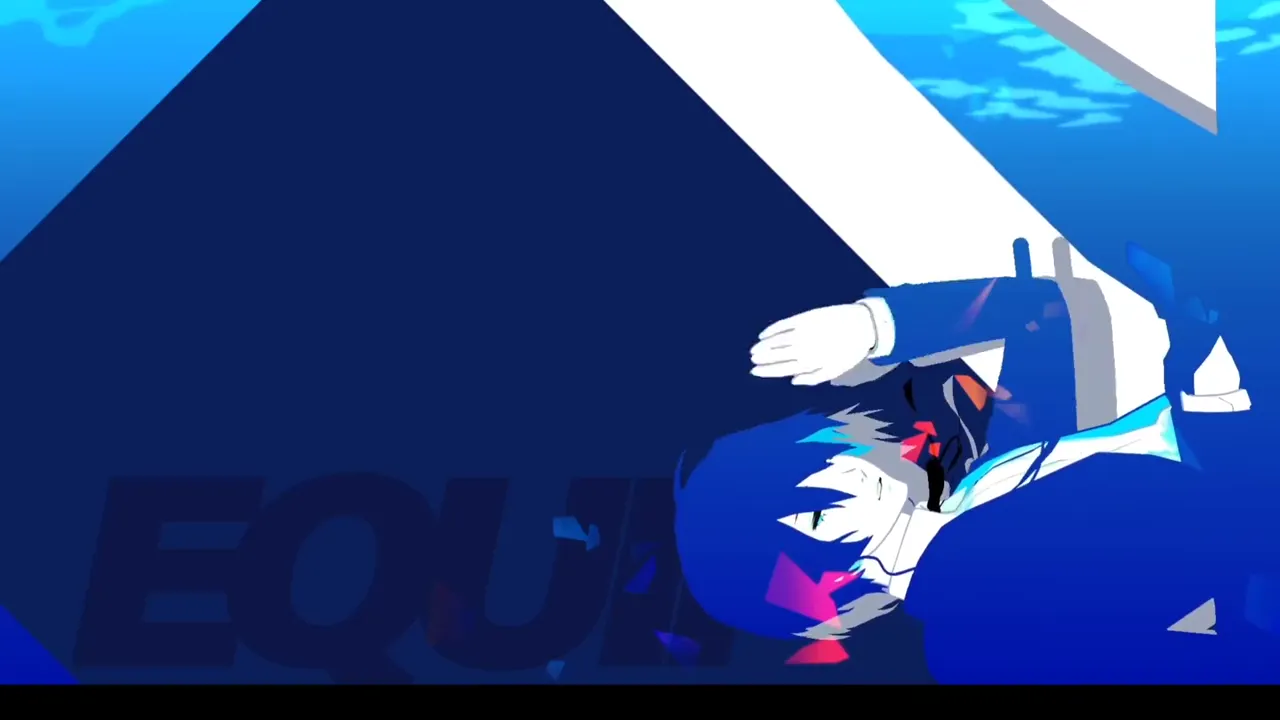
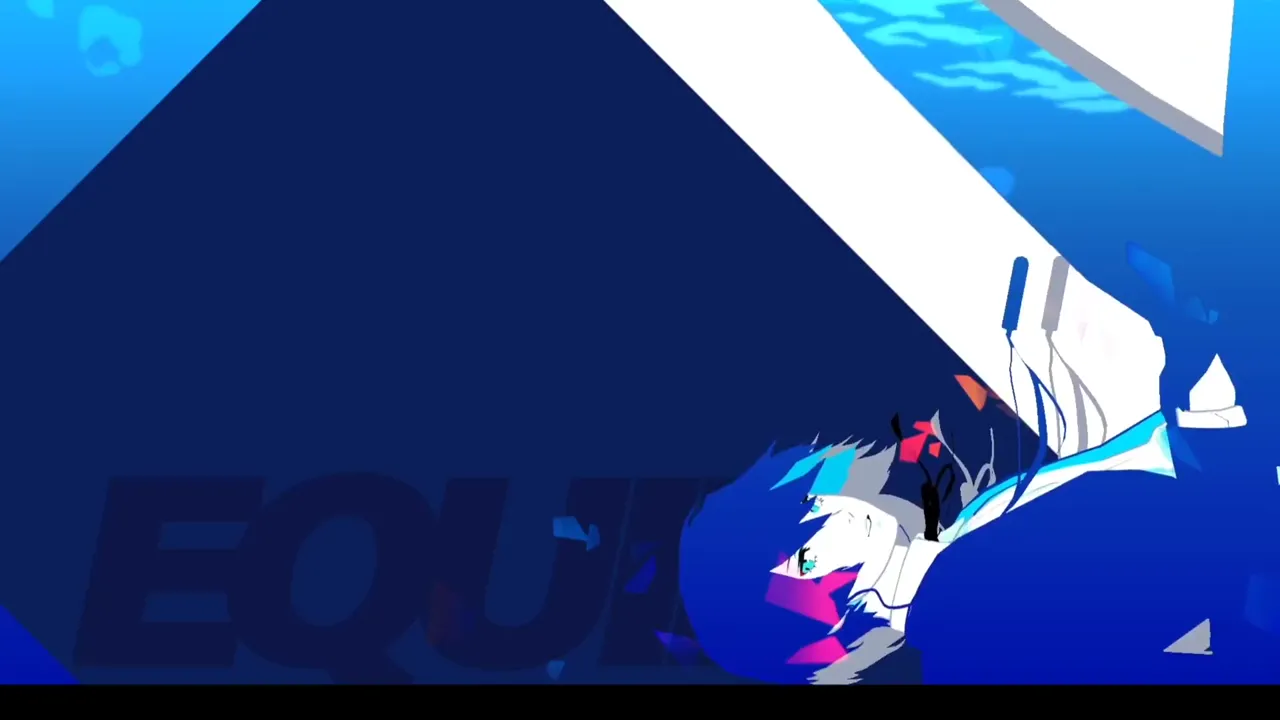
UX: Crossfade suave entre poster y video

diff --git a/components/Menu.tsx b/components/Menu.tsx
@@ -110,6 +110,7 @@ function VideoBackdrop({ warmed, active }: { warmed: Set<string>; active: string
   const isMobile = useIsMobile();
   const prefersReducedMotion = usePrefersReducedMotion();
   const refs = useRef<Record<string, HTMLVideoElement | null>>({});
+  const [videoReady, setVideoReady] = useState<Set<string>>(() => new Set());
 
   useEffect(() => {
     if (prefersReducedMotion) return;
@@ -122,28 +123,50 @@ function VideoBackdrop({ warmed, active }: { warmed: Set<string>; active: string
     }
   }, [warmed, prefersReducedMotion]);
 
+  const markReady = (key: string) => {
+    setVideoReady(prev => (prev.has(key) ? prev : new Set(prev).add(key)));
+  };
+
   return (
     <div className="absolute inset-0" style={{ zIndex: 0, pointerEvents: "none", background: "#050b1f" }}>
       {BACKDROP_VIDEOS.map((item) => {
         const isActive = active === item.key;
         const shouldPlay = warmed.has(item.key) && !prefersReducedMotion;
+        const isReady = videoReady.has(item.key);
         return (
-          <video
+          <div
             key={item.key}
-            ref={(el) => { refs.current[item.key] = el; }}
-            autoPlay={shouldPlay}
-            loop={!prefersReducedMotion}
-            muted
-            playsInline
-            preload={warmed.has(item.key) ? "auto" : "metadata"}
-            poster={item.poster}
-            aria-hidden="true"
-            data-mobile-bg={isMobile ? "" : undefined}
-            className="absolute inset-0 w-full h-full object-cover"
-            style={{ zIndex: 0, opacity: isActive ? 1 : 0, transition: "opacity 180ms ease" }}
+            className="absolute inset-0"
+            style={{ zIndex: 0, opacity: isActive ? 1 : 0, transition: "opacity 180ms ease", pointerEvents: "none" }}
           >
-            <source src={item.src} type="video/mp4" />
-          </video>
+            <div
+              className="absolute inset-0"
+              style={{
+                zIndex: 0,
+                backgroundImage: `url(${item.poster})`,
+                backgroundSize: "cover",
+                backgroundPosition: isMobile ? "center 35%" : "center",
+                transform: isReady ? "scale(1)" : "scale(1.015)",
+                filter: isReady ? "blur(0px)" : "blur(4px)",
+                transition: "transform 600ms ease, filter 600ms ease",
+              }}
+            />
+            <video
+              ref={(el) => { refs.current[item.key] = el; }}
+              autoPlay={shouldPlay}
+              loop={!prefersReducedMotion}
+              muted
+              playsInline
+              preload={warmed.has(item.key) ? "auto" : "metadata"}
+              onPlaying={() => markReady(item.key)}
+              aria-hidden="true"
+              data-mobile-bg={isMobile ? "" : undefined}
+              className="absolute inset-0 w-full h-full object-cover"
+              style={{ zIndex: 1, opacity: isReady ? 1 : 0, transition: "opacity 400ms ease" }}
+            >
+              <source src={item.src} type="video/mp4" />
+            </video>
+          </div>
         );
       })}
     </div>
@@ -162,6 +185,7 @@ export default function Menu() {
   const [started, setStarted]             = useState(false);
   const [introFinished, setIntroFinished] = useState(false);
   const [menuVidReady, setMenuVidReady]   = useState(false);
+  const [menuLoopReady, setMenuLoopReady] = useState(false);
   const [loadProgress, setLoadProgress]   = useState(0);
 
   const loadStartedAt = useRef<number | null>(null);
@@ -312,6 +336,7 @@ export default function Menu() {
       if (screen === "menu") {
         setIntroFinished(false);
         setMenuVidReady(false);
+        setMenuLoopReady(false);
         setShowMenu(false);
         setActive(0);
       }
@@ -437,40 +462,78 @@ export default function Menu() {
             <div className="absolute inset-0" style={{ background: "#ffffff", zIndex: 0 }} />
           )}
 
-          {/* LOOP VIDEO — always mounted & playing underneath, so the intro→loop handoff has no gap/flash */}
+          {/* LOOP VIDEO — poster layer fades into the live video once it starts playing */}
           {currentScreen === "menu" && vidsReady && (
-            <video
-              autoPlay={!prefersReducedMotion} loop={!prefersReducedMotion} muted playsInline
-              preload={prefersReducedMotion ? "none" : "auto"}
-              poster="/posters/menu.webp"
-              src={menuSources.loop}
-              data-mobile-bg={isMobile ? "" : undefined}
-              className="absolute inset-0 w-full h-full object-cover"
-              style={{ transform: isMobile ? "none" : "translateX(15%)", objectPosition: isMobile ? "22% center" : "center", zIndex: 1 }}
-            />
+            <div
+              className="absolute inset-0"
+              style={{ transform: isMobile ? "none" : "translateX(15%)", zIndex: 1, pointerEvents: "none" }}
+            >
+              <div
+                className="absolute inset-0"
+                style={{
+                  backgroundImage: "url('/posters/menu.webp')",
+                  backgroundSize: "cover",
+                  backgroundPosition: isMobile ? "22% center" : "center",
+                  transform: menuLoopReady ? "scale(1)" : "scale(1.015)",
+                  filter: menuLoopReady ? "blur(0px)" : "blur(4px)",
+                  transition: "transform 600ms ease, filter 600ms ease",
+                }}
+              />
+              <video
+                autoPlay={!prefersReducedMotion} loop={!prefersReducedMotion} muted playsInline
+                preload={prefersReducedMotion ? "none" : "auto"}
+                src={menuSources.loop}
+                data-mobile-bg={isMobile ? "" : undefined}
+                onPlaying={() => setMenuLoopReady(true)}
+                className="absolute inset-0 w-full h-full object-cover"
+                style={{
+                  objectPosition: isMobile ? "22% center" : "center",
+                  opacity: menuLoopReady ? 1 : 0,
+                  transition: "opacity 400ms ease",
+                }}
+              />
+            </div>
           )}
 
-          {/* INTRO VIDEO — on top; hidden until it can play, then fades OUT when it ends (loop already running behind) */}
+          {/* INTRO VIDEO — poster fades into live video, then the whole layer fades out when it ends */}
           {currentScreen === "menu" && vidsReady && (
-            <video
-              autoPlay={!prefersReducedMotion} muted playsInline
-              preload={prefersReducedMotion ? "none" : "auto"}
-              poster="/posters/menu-intro.webp"
-              src={menuSources.intro}
-              data-mobile-bg={isMobile ? "" : undefined}
-              onCanPlayThrough={() => setMenuVidReady(true)}
-              onPlaying={() => setMenuVidReady(true)}
-              onEnded={() => setIntroFinished(true)}
-              className="absolute inset-0 w-full h-full object-cover"
+            <div
+              className="absolute inset-0"
               style={{
                 transform: isMobile ? "none" : "translateX(15%)",
-                objectPosition: isMobile ? "22% center" : "center",
                 zIndex: 2,
-                opacity: introFinished ? 0 : (menuVidReady ? 1 : 0),
+                opacity: introFinished ? 0 : 1,
                 transition: "opacity 0.4s ease",
                 pointerEvents: "none",
               }}
-            />
+            >
+              <div
+                className="absolute inset-0"
+                style={{
+                  backgroundImage: "url('/posters/menu-intro.webp')",
+                  backgroundSize: "cover",
+                  backgroundPosition: isMobile ? "22% center" : "center",
+                  transform: menuVidReady ? "scale(1)" : "scale(1.015)",
+                  filter: menuVidReady ? "blur(0px)" : "blur(4px)",
+                  transition: "transform 600ms ease, filter 600ms ease",
+                }}
+              />
+              <video
+                autoPlay={!prefersReducedMotion} muted playsInline
+                preload={prefersReducedMotion ? "none" : "auto"}
+                src={menuSources.intro}
+                data-mobile-bg={isMobile ? "" : undefined}
+                onCanPlayThrough={() => setMenuVidReady(true)}
+                onPlaying={() => setMenuVidReady(true)}
+                onEnded={() => setIntroFinished(true)}
+                className="absolute inset-0 w-full h-full object-cover"
+                style={{
+                  objectPosition: isMobile ? "22% center" : "center",
+                  opacity: menuVidReady ? 1 : 0,
+                  transition: "opacity 400ms ease",
+                }}
+              />
+            </div>
           )}
 
           {/* ── MENU ── */}
